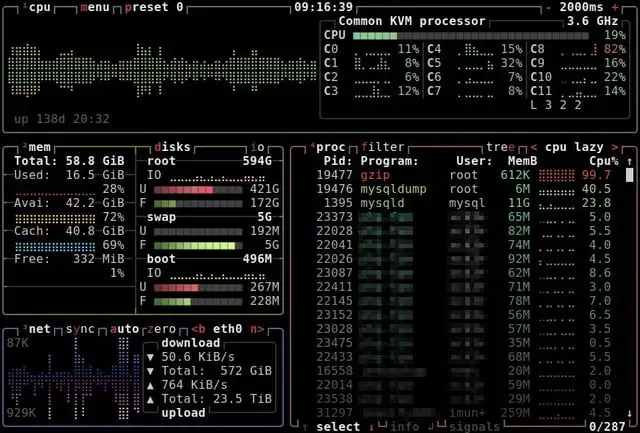
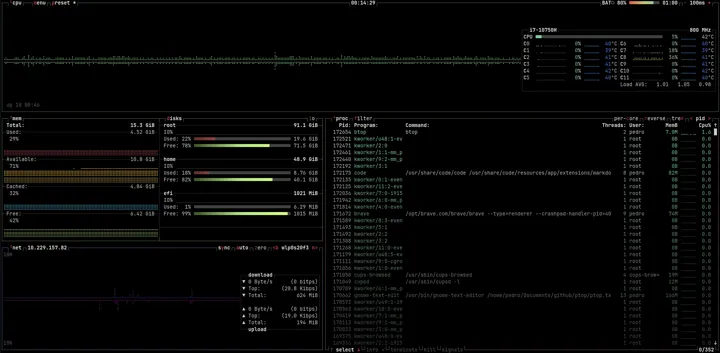
feat(cpu main graph): implement mirrored global graph and optimization
- Added mirrored global CPU usage graph with symmetric vertical growth.
- Fixed graph indexing bug.

Changed region(s): [[0.0, 0.0, 1.0, 1.0]]

diff --git a/src/ui/ui.c b/src/ui/ui.c
@@ -7,10 +7,17 @@
 #include <sys/ioctl.h>
 #include "ui/ui.h"
 #include "ui/term.h"
+#include "util/rect.h"
 
 const char *dots_braille[8] =
 {
     DOTS_1, DOTS_2, DOTS_3, DOTS_4, DOTS_5, DOTS_6, DOTS_7, DOTS_8
+};
+
+const char *dots_braille_inv[8] =
+{
+    INV_DOTS_1, INV_DOTS_2, INV_DOTS_3, INV_DOTS_4,
+    INV_DOTS_5, INV_DOTS_6, INV_DOTS_7, INV_DOTS_8
 };
 
 const char *gradient_temp[16] =
@@ -151,12 +158,13 @@ void tui_draw_bottom_space(char **p, int x, int y, int len)
     APPEND_LIT(p, BOX_BL);
 }
 
-void tui_draw_graph(char **p, uint8_t *data, int len, int head)
+void tui_draw_graph(char **p, uint8_t *data, int len, int capacity, int head)
 {
     int last_dot_idx = -2;
     for (int i = 0; i < len; i++)
     {
-        int idx = (head + i) % len;
+        int idx = (head + capacity - len + i) % capacity;
+        
         uint8_t val = data[idx];
 
         int dot_idx = (val >> 4) & 7;
@@ -177,5 +185,97 @@ void tui_draw_graph(char **p, uint8_t *data, int len, int head)
             }
         }
         append_str(p, dots_braille[dot_idx]);
+    }
+}
+
+void tui_draw_graph_mirrored(char **p, uint8_t *data, int capacity, int head, Rect r)
+{
+    int center_y = r.h / 2;
+    int is_even_h = (r.h % 2 == 0);
+    
+    // Calcula a distância máxima baseada na metade MENOR para garantir simetria visual
+    // Se for ímpar (ex: Topo 30, Baixo 29), força o max_dist ser 29 para ambos.
+    int max_dist = (r.h - 1) / 2;
+    if (!is_even_h) max_dist = (r.h / 2) - 1; // Ajuste fino para simetria
+    
+    if (max_dist < 1) max_dist = 1;
+
+    int total_subpixels = (max_dist + 1) * 8;
+
+    for (int y = 0; y < r.h; y++)
+    {
+        tui_at(p, r.x, r.y + y);
+
+        int dist;
+        const char **current_dots;
+
+        // --- 1. Lógica de Direção ---
+        if (is_even_h) {
+            if (y < center_y) {
+                dist = (center_y - 1) - y;
+                current_dots = dots_braille;
+            } else {
+                dist = y - center_y;
+                current_dots = dots_braille_inv; 
+            }
+        } else {
+            // ALTURA ÍMPAR
+            if (y <= center_y) {
+                dist = center_y - y;
+                current_dots = dots_braille;
+            } else {
+                dist = y - center_y - 1; 
+                current_dots = dots_braille_inv;
+            }
+        }
+
+        // --- 2. Cor (Limitada a 6 para evitar Roxo/Branco) ---
+        // Usa bitshift para performance: (dist * 8) / max_dist
+        int color_idx = (dist << 3) / max_dist;
+        
+        // Se a sua paleta tem roxo no 7, travar no 6 mantém no vermelho/laranja
+        if (color_idx > 6) color_idx = 6; 
+
+        int row_start_pixel = dist * 8;
+        int row_end_pixel   = (dist + 1) * 8;
+
+        for (int x = 0; x < r.w; x++)
+        {
+            int idx = (head + capacity - r.w + x) % capacity;
+            uint8_t val = data[idx];
+            int needed_subpixels = (val * total_subpixels) / 100;
+
+            if (needed_subpixels >= row_end_pixel)
+            {
+                // Corpo Sólido
+                append_str(p, gradient_perc[color_idx]);
+                append_str(p, current_dots[7]);
+            }
+            else if (needed_subpixels > row_start_pixel)
+            {
+                // Ponta do Gráfico
+                int remainder = needed_subpixels - row_start_pixel;
+                int char_idx = remainder - 1;
+                
+                if (char_idx < 0) char_idx = 0;
+                if (char_idx > 7) char_idx = 7;
+
+                append_str(p, gradient_perc[color_idx]);
+                append_str(p, current_dots[char_idx]); 
+            }
+            else
+            {
+                // Linha de base contínua (mínimo verde no centro)
+                if (dist == 0)
+                {
+                    append_str(p, gradient_perc[0]); 
+                    append_str(p, current_dots[0]);  
+                }
+                else
+                {
+                    append_str(p, " ");
+                }
+            }
+        }
     }
 }

diff --git a/src/ui/ui.h b/src/ui/ui.h
@@ -3,6 +3,7 @@
 
 #include <stdint.h>
 #include "util/util.h"
+#include "util/rect.h"
 #include "theme/theme.h"
 
 // --- BRAILE DOTS ---
@@ -15,6 +16,15 @@
 #define DOTS_7   "\xE2\xA3\xBF"  // ⣿
 #define DOTS_8   "\xE2\xA3\xBF"  // ⣿
 
+#define INV_DOTS_1   "\xE2\xA0\x89"  // ⠉
+#define INV_DOTS_2   "\xE2\xA0\x8B"  // ⠋
+#define INV_DOTS_3   "\xE2\xA0\x9B"  // ⠛
+#define INV_DOTS_4   "\xE2\xA0\x9F"  // ⠟
+#define INV_DOTS_5   "\xE2\xA0\xBF"  // ⠿
+#define INV_DOTS_6   "\xE2\xA1\xBF"  // ⡿
+#define INV_DOTS_7   "\xE2\xA3\xBF"  // ⣿
+#define INV_DOTS_8   "\xE2\xA3\xBF"  // ⣿
+
 // --- BOX ---
 #define BOX_TL "┌"
 #define BOX_TR "┐"
@@ -24,8 +34,7 @@
 #define BOX_V  "│"
 
 extern const char* dots_braille[8];
-// extern const char* gradient_temp[16];
-// extern const char* gradient_perc[8];
+extern const char* dots_braille_inv[8];
 
 static inline void tui_at(char **p, int x, int y)
 {
@@ -42,7 +51,8 @@ void tui_restore();
 void tui_draw_box(char **p, int x, int y, int w, int h, char *color);
 void tui_draw_up_space(char **p, int x, int y, int len);
 void tui_draw_bottom_space(char **p, int x, int y, int len);
-void tui_draw_graph(char **p, uint8_t *data, int len, int head);
+void tui_draw_graph(char **p, uint8_t *data, int len, int capacity, int head);
+void tui_draw_graph_mirrored(char **p, uint8_t *data, int capacity, int head, Rect r);
 
 extern int term_w;
 extern int term_h;

diff --git a/src/mod/cpu/cpu.c b/src/mod/cpu/cpu.c
@@ -140,6 +140,14 @@ void recalc_cpu(CpuMon *cpumon)
     cpumon->table_cols = cols;
     cpumon->table_rows = rows;
     cpumon->col_width = candidate_col_w;
+
+    // --- MAIN GRAPH ---
+    cpumon->r_graph = (Rect){
+        .x = cpumon->rect.x + BORDER_PADDING * 2,
+        .y = cpumon->rect.y + BORDER_PADDING * 4,
+        .w = cpumon->rect.w - table_w - BORDER_PADDING * 4,
+        .h = cpumon->rect.h - BORDER_PADDING * 8
+    };
 }
 
 void draw_cpu_ui(CpuMon *cpumon, char **p)
@@ -218,7 +226,7 @@ void draw_cpu_data(CpuMon* cpumon, char **p)
 
         uint8_t *core_hist_ptr = &cpumon->graph_hist[i * cpumon->graph_width];
 
-        tui_draw_graph(p, core_hist_ptr, draw_w, cpumon->graph_head);
+        tui_draw_graph(p, core_hist_ptr, draw_w, cpumon->graph_width, cpumon->graph_head);
 
         draw_usage_data(p, cpumon->usage[i]);
     }
@@ -226,4 +234,7 @@ void draw_cpu_data(CpuMon* cpumon, char **p)
     append_str(p, theme.fg);
     draw_uptime_data(p, cpumon->rect.x + 5, cpumon->rect.y + 1, cpumon->uptime);
     draw_load_avg_data(p, cpumon->rect.x + 6, cpumon->rect.y + cpumon->rect.h - 2, cpumon->load_avg);
+
+    tui_at(p, cpumon->r_graph.x, cpumon->r_graph.y + cpumon->r_graph.h / 2);
+    tui_draw_graph_mirrored(p, cpumon->main_usage, 256, cpumon->main_graph_head, cpumon->r_graph);
 }

diff --git a/src/mod/cpu/cpu_data.c b/src/mod/cpu/cpu_data.c
@@ -199,7 +199,31 @@ void parse_stats(CpuMon* cpumon)
 
     cpumon->stat_buffer[bytes_read] = '\0';
     char *p = cpumon->stat_buffer;
-    skip_line(&p);
+
+    if (*p == 'c')
+    {
+        skip_to_digit(&p);
+        skip_to_digit(&p); uint64_t user = str_to_uint64(&p);
+        skip_to_digit(&p); uint64_t nice = str_to_uint64(&p);
+        skip_to_digit(&p); uint64_t system = str_to_uint64(&p);
+        skip_to_digit(&p); uint64_t idle = str_to_uint64(&p);
+        skip_to_digit(&p); uint64_t iowait = str_to_uint64(&p);
+        skip_to_digit(&p); uint64_t irq = str_to_uint64(&p);
+        skip_to_digit(&p); uint64_t softirq = str_to_uint64(&p);
+        skip_to_digit(&p); uint64_t steal = str_to_uint64(&p);
+
+        skip_line(&p);
+
+        uint8_t global_usage = calc_core_usage
+        (
+            user, nice, system, idle, iowait, irq, softirq, steal,
+            &cpumon->main_prev_total,
+            &cpumon->main_prev_idle
+        );
+
+        cpumon->main_usage[cpumon->main_graph_head] = global_usage;
+        cpumon->main_graph_head = (cpumon->main_graph_head + 1) % 256; 
+    }
 
     for (size_t cpu_id = 0; cpu_id < cpumon->thread_count; cpu_id++)
     {

diff --git a/src/mod/mem/mem.c b/src/mod/mem/mem.c
@@ -32,7 +32,14 @@ void draw_mem_ui(MemMon *memmon, char **p)
 
     // --- MAIN BOX ---
     tui_draw_box(p, x, y, w, h, theme.mem_bd);
+    
+    tui_at(p, memmon->rect.x + 2, memmon->rect.y + 1);
     append_str(p, theme.fg);
+    APPEND_LIT(p, "\033[1mRAM\033[22m Total: ");
+
+    append_fixed_shift_2d(p, memmon->total, 20);
+    APPEND_LIT(p, " GiB");
+
 }
 
 void draw_mem_data(MemMon *memmon, char **p)
@@ -42,14 +49,8 @@ void draw_mem_data(MemMon *memmon, char **p)
     int w = memmon->rect.w;
 
     int start_x = x + 2;
-    int current_y = y + 1;
+    int current_y = y + 2;
     int inner_w = w - 4;
-
-    tui_at(p, start_x, current_y++);
-    APPEND_LIT(p, "\033[1mRAM\033[22m Total: ");
-
-    append_fixed_shift_2d(p, memmon->total, 20);
-    APPEND_LIT(p, " GiB");
 
     if (memmon->total == 0) return;
 

diff --git a/src/mod/cpu/cpu.h b/src/mod/cpu/cpu.h
@@ -18,6 +18,9 @@ typedef struct
     char *stat_buffer;
     size_t stat_buffer_size;
 
+    uint64_t main_prev_total;
+    uint64_t main_prev_idle;
+
     uint32_t uptime;
     uint32_t load_avg[3];
 
@@ -30,6 +33,7 @@ typedef struct
 
     Rect rect;
     Rect r_table;
+    Rect r_graph;
 
     uint16_t table_cols;
     uint16_t table_rows;
@@ -41,6 +45,9 @@ typedef struct
     uint8_t graph_width;
 
     uint8_t is_compact;
+
+    uint8_t main_graph_head;
+    uint8_t main_usage[256];
 } CpuMon;
 
 void init_cpu(CpuMon *cpumon);

diff --git a/src/app/app.c b/src/app/app.c
@@ -16,7 +16,7 @@ void app_init(AppContext *ctx)
 {
     memset(ctx, 0, sizeof(*ctx));
 
-    ctx->delay = 500;
+    ctx->delay = 200;
     ctx->running = 1;
     ctx->show_cpu = 1;
     ctx->show_mem = 1;

diff --git a/src/cfg/buf.h b/src/cfg/buf.h
@@ -3,6 +3,6 @@
 
 #define CPU_STAT_BUF_LEN 2048
 #define MEM_STAT_BUF_LEN 2048
-#define WRITE_BUF_LEN 16384
+#define WRITE_BUF_LEN 16384*8
 
 #endif

diff --git a/README.md b/README.md
@@ -6,13 +6,19 @@
 ![Language](https://img.shields.io/badge/-C11-blue)
 ![Usage](https://img.shields.io/badge/Usage-System_resource_monitor-yellow)
 
-Personal Tabel of Processes (**ptop**) é um monitor de recursos de sistema focado em performance. Escrito em C, sem dependências externas além da biblioteca padrão.
+Personal Table of Processes (**ptop**) é um monitor de recursos de sistema focado em performance. Escrito em C, sem dependências externas além da biblioteca padrão.
 
 Inspirado na estética do [btop](https://github.com/aristocratos/btop).
 
 | ptop (WIP) | btop (Original) |
 | :---: | :---: |
 | ![Tela do ptop](.github/img/ptop.webp) | ![Tela do btop](.github/img/btop.webp) |
+
+A parte mais desenvolvida foi o módulo da CPU que já está quase finalizado:
+
+| ptop (cpu only) | btop (cpu only) |
+| :---: | :---: |
+| ![Tela do ptop](.github/img/ptop-cpu.webp) | ![Tela do btop](.github/img/btop-cpu.webp) |
 
 ## Instalação
 
@@ -30,6 +36,8 @@ make release
 
 ## Controles
 
+`- 200ms +`: muda o intervalo de atualização.
+
 | Tecla | Ação |
 | :---: | :--- |
 | `q` | Sair |
@@ -37,6 +45,19 @@ make release
 | `2` | Ligar/Desligar Memória |
 | `t` | Trocar Tema |
 | `r` | Forçar Redesenho |
+
+## Performance
+
+### Eficiência de CPU (Benchmark de 10s)
+
+Em um teste de 10 segundos, o **ptop** utilizou apenas **0.25% de 1 core** de CPU.
+
+| Métrica | Tempo Gasto |
+| :--- | ---: |
+| **User (Lógica)** | **0.003s** |
+| **System (Kernel)** | **0.022s** |
+| **Total Ativo** | **0.025s** |
+| **Ocioso (Idle)** | 9.975s |
 
 ## License
 
